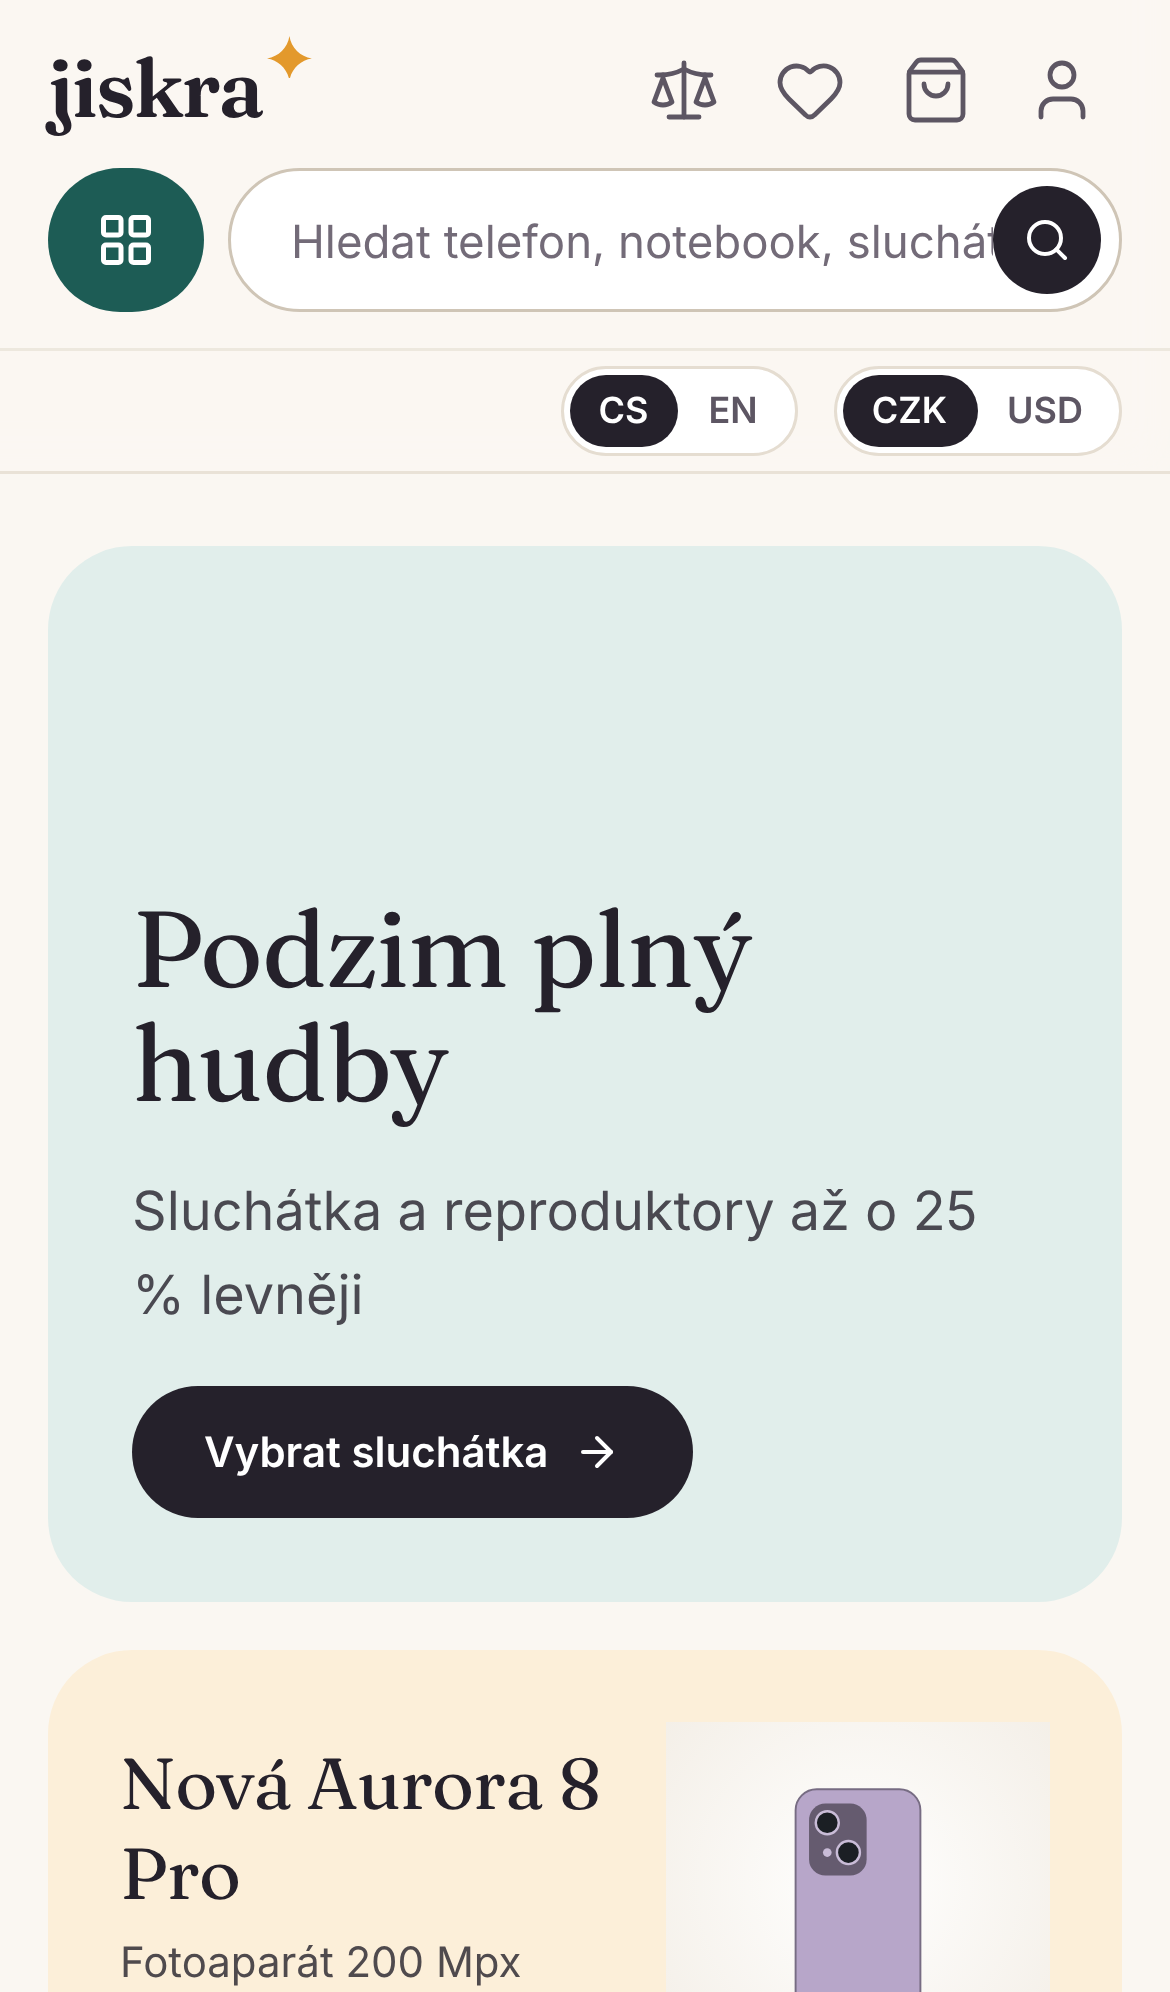
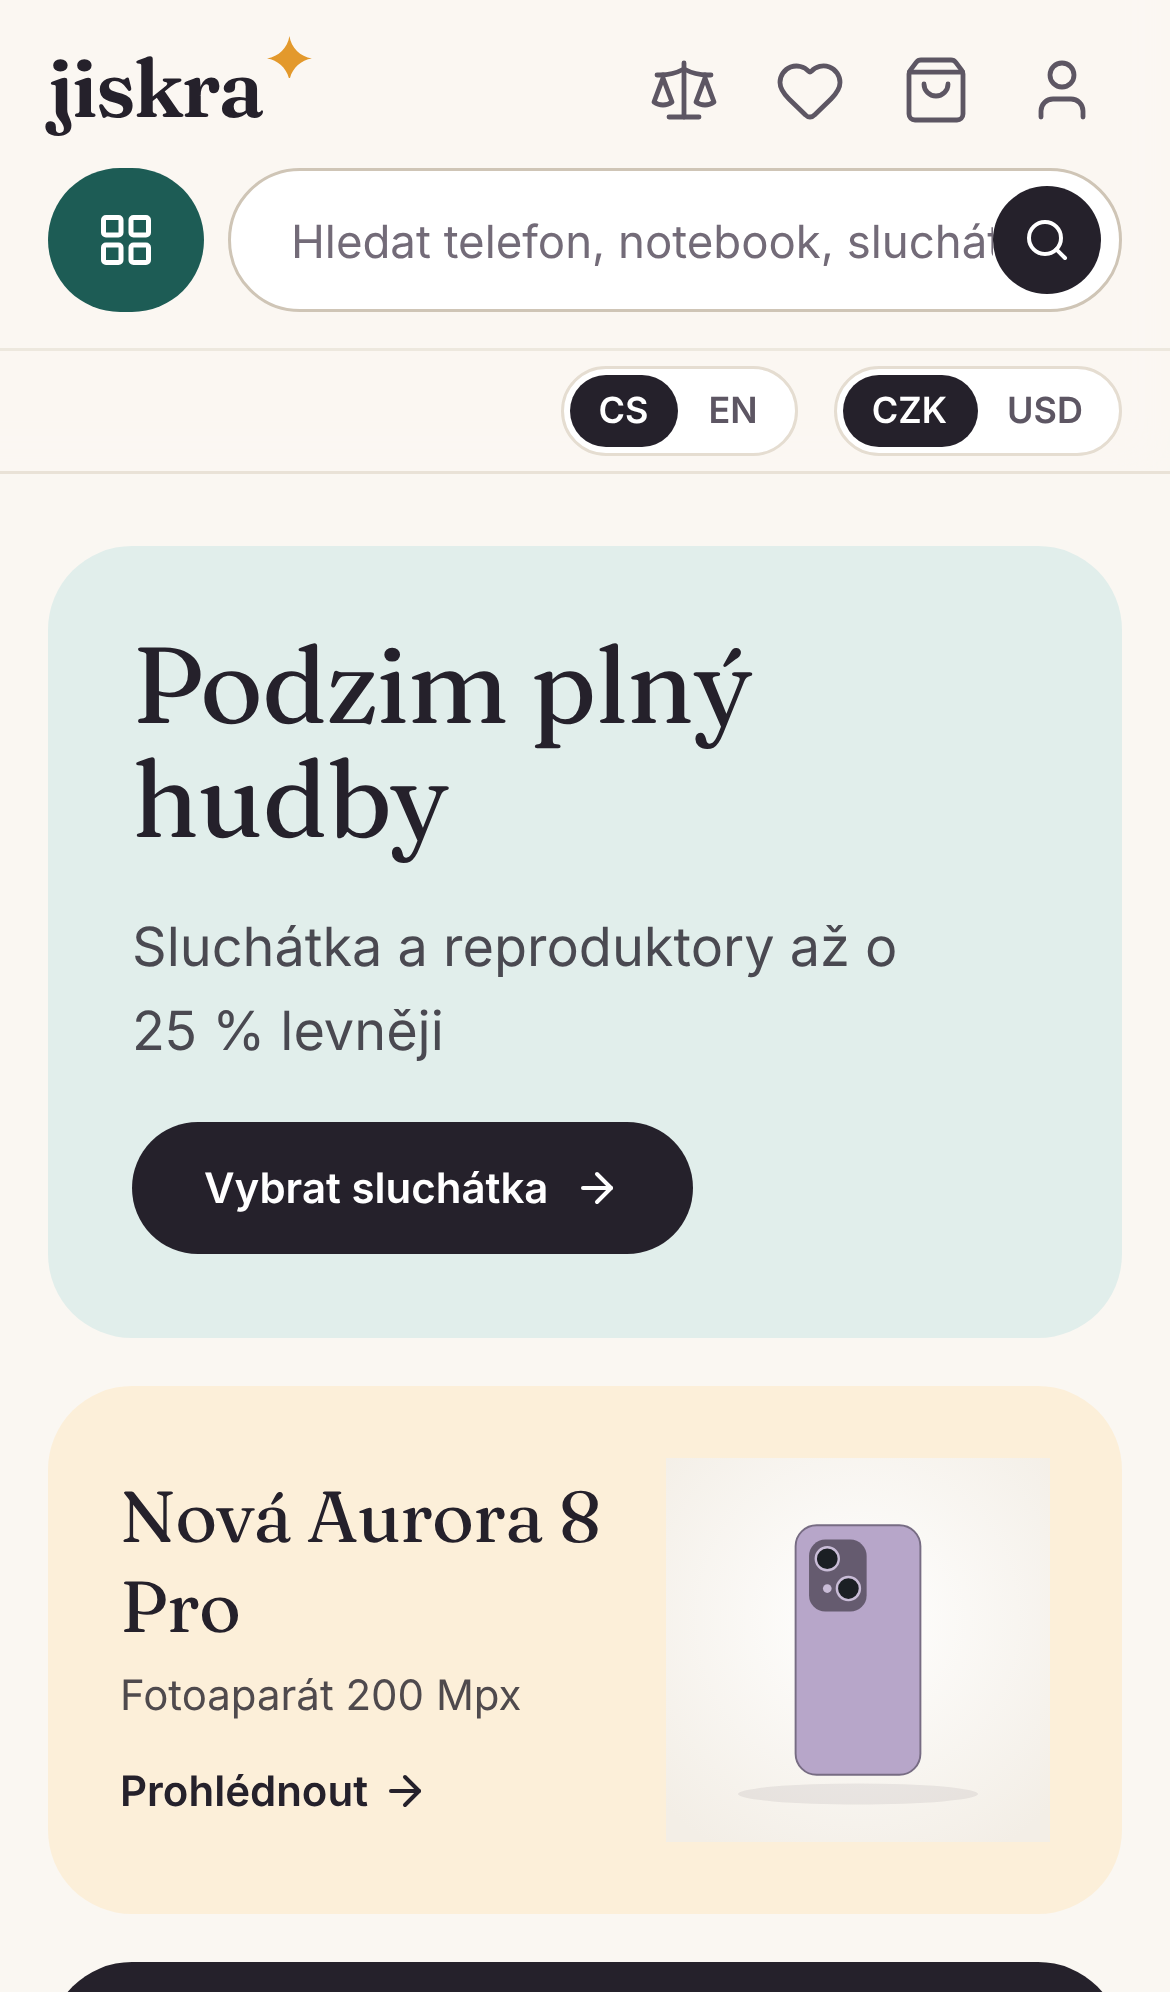
Prepare the repository for public release
- Remove internal build notes and third-party design reference screenshots
- Turn the progress log into docs/ARCHITECTURE.md
- Use clearly fictional contact and bank details in the demo data
- Expand the README (features, screenshots) and refresh the screenshots
- Keep the hero banner compact on phones; non-breaking space in a percentage

Changed region(s): [[0.0308, 0.3112, 0.9846, 1.0], [0.4615, 0.3112, 0.6462, 0.3735]]

diff --git a/prisma/seed.ts b/prisma/seed.ts
@@ -255,7 +255,7 @@ async function seedBanners(catSlugs: Map<string, Tr>) {
     link: Tr;
     alt: Tr;
   }> = [
-    { placement: "HERO", bg: "#e1eeeb", fg: "#25212b", image: placeholderUrl("headphones", "d8c3a5", 1), title: ["Podzim plný hudby", "An autumn full of music"], subtitle: ["Sluchátka a reproduktory až o 25 % levněji", "Headphones and speakers up to 25% off"], cta: ["Vybrat sluchátka", "Shop headphones"], link: cat("headphones"), alt: ["Bezdrátová sluchátka v pískové barvě", "Sand-coloured wireless headphones"] },
+    { placement: "HERO", bg: "#e1eeeb", fg: "#25212b", image: placeholderUrl("headphones", "d8c3a5", 1), title: ["Podzim plný hudby", "An autumn full of music"], subtitle: ["Sluchátka a reproduktory až o 25\u00a0% levněji", "Headphones and speakers up to 25% off"], cta: ["Vybrat sluchátka", "Shop headphones"], link: cat("headphones"), alt: ["Bezdrátová sluchátka v pískové barvě", "Sand-coloured wireless headphones"] },
     { placement: "HERO_SIDE", bg: "#fcefd9", fg: "#25212b", image: placeholderUrl("phone", "b7a6c9", 2), title: ["Nová Aurora 8 Pro", "The new Aurora 8 Pro"], subtitle: ["Fotoaparát 200 Mpx", "200 MP camera"], cta: ["Prohlédnout", "Discover"], link: ["/product/nordvik-aurora-8-pro", "/product/nordvik-aurora-8-pro"], alt: ["Telefon v levandulové barvě", "Lavender phone"] },
     { placement: "HERO_SIDE", bg: "#25212b", fg: "#ffffff", image: placeholderUrl("controller", "a8463d", 1), title: ["Herní týdny", "Gaming weeks"], subtitle: ["Konzole a ovladače v akci", "Consoles and controllers on sale"], cta: ["Do herního světa", "Enter gaming"], link: cat("gaming"), alt: ["Červený herní ovladač", "Red game controller"] },
     { placement: "PROMO", bg: "#f2ede5", fg: "#25212b", image: placeholderUrl("laptop", "c9ccd1", 1), title: ["Notebooky pro studenty", "Laptops for students"], subtitle: ["Lehké, tiché, s celodenní výdrží", "Light, quiet, all-day battery"], cta: ["Vybrat", "Browse"], link: cat("laptops"), alt: ["Stříbrný notebook", "Silver laptop"] },
@@ -408,10 +408,10 @@ async function main() {
       usdRate: USD_RATE,
       usdRounding: "NINETY_NINE",
       shopName: "Jiskra",
-      contactEmail: "obchod@jiskra.local",
+      contactEmail: "obchod@jiskra.example",
       contactPhone: "+420 123 456 789",
       address: "Ukázková 1, 110 00 Praha 1",
-      companyId: "12345678",
+      companyId: "00000000",
       bankAccount: "0000000000/0000",
       iban: "CZ00 0000 0000 0000 0000 0000",
       lowStockThreshold: 5,

diff --git a/src/app/[locale]/page.tsx b/src/app/[locale]/page.tsx
@@ -65,7 +65,7 @@ export default async function HomePage({ params }: { params: Promise<{ locale: s
       {(hero || side.length > 0) && (
         <section aria-label={t("promotions")} className="mt-6 grid gap-4 lg:grid-cols-[1.9fr_1fr]">
           {hero?.tr && (
-            <BannerLink href={hero.tr.linkUrl} className="group relative grid min-h-[22rem] overflow-hidden rounded-2xl p-7 sm:grid-cols-[1fr_0.9fr] sm:p-10">
+            <BannerLink href={hero.tr.linkUrl} className="group relative grid min-h-64 overflow-hidden sm:min-h-[22rem] rounded-2xl p-7 sm:grid-cols-[1fr_0.9fr] sm:p-10">
               <span className="absolute inset-0" style={{ background: hero.bgColor }} aria-hidden="true" />
               <div className="relative z-10 flex flex-col justify-end gap-4 self-stretch" style={{ color: hero.textColor }}>
                 <h2 className="text-4xl leading-[1.05] sm:text-5xl lg:text-6xl">{hero.tr.title}</h2>

diff --git a/docs/ARCHITECTURE.md b/docs/ARCHITECTURE.md
@@ -1,6 +1,6 @@
-# PROGRESS
+# Architecture and engineering notes
 
-Living status document: what is done, what is next, decisions and known issues.
+How the shop is put together, the main design decisions, how it is tested and what is still open.
 
 ## Brand
 
@@ -10,18 +10,6 @@ Living status document: what is done, what is next, decisions and known issues.
   near-black ink `#25212b`, deep teal brand `#1d5c55`, amber spark `#e3992c`, terracotta sale `#b23a2b`.
 - **Type:** Fraunces (serif display, headings) + Inter (body), self-hosted via `@fontsource-variable/*`.
 - **Shape:** cards `rounded-xl` (20px), pill buttons, soft shadows, airy spacing.
-
-## Phase plan
-
-| Phase | Scope | Status |
-| --- | --- | --- |
-| 0 | Setup: Next.js, TS, Tailwind, Prisma, next-intl, Zod, Vitest, tokens, brand | ✅ done |
-| 1 | Prisma data model + seed | ✅ done |
-| 2 | CMS / admin panel (`/admin`) | ✅ done |
-| 3 | Storefront | ✅ done |
-| 4 | Cart and checkout | ✅ done |
-| 5 | Quality: tests, e2e, final pass | ✅ done |
-| 6 | Second pass: review fixes, known issues, accounts, transports | ✅ done |
 
 ## Decisions
 
@@ -36,7 +24,7 @@ Living status document: what is done, what is next, decisions and known issues.
   "CZK per 1 USD × 10 000" so CZK→USD conversion is exact (BigInt math). USD rounding modes: cent / whole / .99.
 - **Validation messages:** Zod 4 built-in locales (`cs`, `en`) are passed per parse, custom messages are i18n keys.
 
-## Data model (Phase 1)
+## Data model
 
 `prisma/schema.prisma` — Category (tree) + CategoryTranslation, Brand, Product + ProductTranslation,
 ProductVariant + VariantOption (color/storage/memory/size/connectivity/edition, labels cs/en, swatch hex),
@@ -56,17 +44,18 @@ prices in both currencies, free-from thresholds), Counter (order numbers).
   brands, 43 products / 123 variants, specs, 4 badges, 7 banners, ~120 reviews (some pending), 3 shipping methods,
   10 sample orders, admin user from `SEED_ADMIN_*`. The seed wipes existing data first.
 - Tests use a throwaway `prisma/test.db` recreated by `tests/global-setup.ts`.
-- Second pass added `Customer.emailVerifiedAt`, `CustomerSession`, `CustomerToken` (hashed one-time tokens),
-  `RateLimitBucket`, `Order.searchText`, `Review.searchText` and `ProductSpecValue.textKey`.
+- Accounts and security: `Customer.emailVerifiedAt`, `CustomerSession`, `CustomerToken` (hashed one-time tokens),
+  `RateLimitBucket`; portable search columns `Order.searchText`, `Review.searchText`; `ProductSpecValue.textKey`
+  (locale-independent filter value).
 
-## CMS (Phase 2)
+## CMS (`/admin`)
 
 `/admin` (not localized; CS/EN switch in the top bar stores `ADMIN_LOCALE`). Login at `/admin/login`.
 
 - **Auth:** own implementation — bcrypt (cost 12) password hashes, random 32-byte session token in an httpOnly
   `admin_session` cookie, only its SHA-256 stored in `AdminSession` (7-day expiry). Middleware does a cheap cookie
   presence check; `requireAdmin()` validates against the DB in the panel layout and in **every** server action.
-  Login is rate-limited in the database (5 attempts / 15 min per IP+e-mail, 20 per e-mail) — see Second pass.
+  Login is rate-limited in the database (5 attempts / 15 min per IP+e-mail, 20 per e-mail).
 - **Roles:** ADMIN = everything; EDITOR cannot open/act on Admin users and Settings (`requireAdmin({ role: "ADMIN" })`).
 - **Sections:** dashboard (orders by status, revenue per currency all-time + 30 days, low stock, latest orders,
   pending reviews), products, categories (tree, up/down reordering, cycle protection, delete blocked when non-empty),
@@ -84,10 +73,10 @@ prices in both currencies, free-from thresholds), Counter (order numbers).
   unique SKU, unique spec key) on the server. Deletes go through a confirmation `<dialog>`.
 - **Messages check:** `src/i18n/keys.test.ts` statically verifies that literal translation keys used in code exist.
 
-## Storefront (Phase 3)
+## Storefront
 
 Routes (all under `/cs` and `/en`): `/` home, `/category/[slug]`, `/product/[slug]`, `/search?q=`, `/favorites`,
-`/compare` (+ `/cart`, `/checkout`, `/order/[number]` in Phase 4). `sitemap.xml`, `robots.txt` at the root.
+`/compare`, `/cart`, `/checkout`, `/order/[number]`, `/account/*`. `sitemap.xml`, `robots.txt` at the root.
 
 - **Header** (`src/components/store/site-header.tsx`): utility bar (free-shipping note, phone, CS/EN + CZK/USD
   switchers), logo, big "Catalog" button → DNS-style mega-menu (icons left, subcategories with counts right;
@@ -111,7 +100,7 @@ Routes (all under `/cs` and `/en`): `/` home, `/category/[slug]`, `/product/[slu
   category with a shared spec table and "differences only".
 - **Images:** `next/image`; generated SVG placeholders are served unoptimized, uploads are optimized.
 
-## Cart and checkout (Phase 4)
+## Cart and checkout
 
 - **Cart** (`/cart`): lines `{variantId, qty}` in localStorage; prices, names, images and stock are re-quoted on the
   server (`quoteCart`) in the visitor's currency. Quantity steppers capped by stock, stock/unavailable warnings with
@@ -132,9 +121,7 @@ Routes (all under `/cs` and `/en`): `/` home, `/category/[slug]`, `/product/[slu
   payment instructions, items and address.
 - **Status e-mails:** changing an order's status in the CMS e-mails the customer (`sendOrderStatusEmail`).
 
-## Quality (Phase 5)
-
-Test suites as of the second pass (see below for what was added):
+## Testing
 
 - **Vitest (135 tests):** money, conversion and rounding; cart lines/totals/stock; filters, presets and
   text keys; variant selection; spec formatting; category tree and visibility; product form round-trip;
@@ -150,41 +137,6 @@ Test suites as of the second pass (see below for what was added):
   (register → verify via the file mail outbox → sign in → pre-filled checkout → order history → password reset),
   CMS login/edit/validation/roles/order history, security headers, and **axe WCAG 2.1 AA scans** of 9 pages.
 - `tsc`, ESLint and `next build` are clean.
-
-## Second pass (review) — what changed
-
-Fixed, most severe first:
-
-1. **Image URLs** entered in the CMS are restricted to site-relative paths (an external URL crashed storefront
-   pages through `next/image`); protocol-relative links (`//host`) are rejected.
-2. **Uploads** are validated by magic bytes, not the browser MIME type; one file per request (no body-limit failures).
-3. **Price-change guard:** an order is refused if the server-side total differs from the total the customer saw.
-4. **Currency switch** re-quotes cart, checkout, favourites and compare (they kept old-currency prices) and drops
-   `pmin/pmax` from listing URLs (bounds were reinterpreted in the new currency).
-5. **Product save:** two-phase SKU update (swapping SKUs crashed), brand/badge ids validated, unique-violation races
-   reported; the transaction moved to `src/lib/catalog/save-product.ts`.
-6. **Stripe:** amount, currency and order id must match before an order is marked paid (return page + webhook).
-7. **Login CSRF:** e-mail verification and password reset no longer sign the visitor in.
-8. **Security headers:** `frame-ancestors 'none'`/`X-Frame-Options` (CMS clickjacking), nosniff, referrer and
-   permissions policies; the order page (token in URL) sends no referrer.
-9. **Visibility:** products in deactivated categories (or under a deactivated parent) are hidden everywhere and
-   cannot be ordered; the category tree no longer promotes grandchildren of inactive categories.
-10. Smaller: product without variants (crash), stale sub-nav variant after navigation, hard-coded `courier`
-    shipping code, concurrent status change (500), cross-locale category redirect dropping filters, guest checkout
-    overwriting a registered customer's profile, admin logged out when changing their own password, malformed
-    input to public actions, e-mails delaying checkout (now sent with `after()`).
-11. Consistency: locale number formatting for ratings and discounts, untranslated labels, modal behaviour of the
-    mobile filter drawer and CMS navigation (Escape, focus trap/restore, scroll lock), dead code and unused
-    messages removed, orphaned uploads deleted after saves/deletes.
-
-Known issues resolved: database-backed rate limits, portable case-insensitive admin search (`searchText` on orders
-and reviews, brand slug), locale-independent spec filters (`textKey`), disjunctive facets.
-
-Not-done items implemented: **customer accounts** (register with e-mail verification, sign-in, reset, profile,
-order history, pre-filled checkout), **SMTP / file mailers** and **S3-compatible storage**.
-
-Upgrading an existing database: `npm run db:push` then `npm run db:backfill` (fills `searchText`, `textKey` and
-aggregates without deleting data), or simply re-seed.
 
 ## How to run locally
 
@@ -224,11 +176,10 @@ console; set `MAILER=file` to collect them in `tmp/mail-outbox.jsonl` or `MAILER
 10. Optional Stripe: set `STRIPE_SECRET_KEY` (test key) → "Platební karta (Stripe)" appears at checkout; for webhooks
     also set `STRIPE_WEBHOOK_SECRET` and forward events to `/api/stripe/webhook`.
 
-## Ideas / not implemented (outside the spec)
+## Out of scope
 
-Deliberately left out because the spec does not ask for them (no features outside the spec without a
-reason): DNS-style bundles, warranty add-ons, instalment prices, user photo strip, news/blog cards, a customer list
-in the CMS.
+Not implemented on purpose (out of scope): product bundles, warranty add-ons, instalment prices, customer photo
+galleries, news/blog, a customer list in the CMS.
 
 ## Known issues / still open
 
@@ -238,7 +189,7 @@ in the CMS.
   `eslint-config-next`. Plan these as a separate upgrade; Prisma 7 also needs `prisma.config.ts` (the
   `package.json#prisma` key is deprecated) and driver adapters.
 - Uploads that are added in the editor but never saved remain in storage (only previously saved files are cleaned).
-- `npm run db:reset` resets the dev database. Tests use
-  their own throwaway DB files (`prisma/test.db`, `prisma/e2e.db`).
+- Tests use their own throwaway database files (`prisma/test.db`, `prisma/e2e.db`); `npm run db:reset` resets the
+  dev database.
 - Rate-limit buckets are cleaned opportunistically; very high traffic deployments may prefer Redis behind the same
   function signature.

diff --git a/README.md b/README.md
@@ -1,7 +1,23 @@
 # Jiskra — electronics e-shop with a built-in CMS
 
-Self-written online store for consumer electronics with its own admin panel. No third-party CMS or
-e-commerce engine. Czech (default) + English, CZK (default) + USD.
+An online store for consumer electronics with its own admin panel (CMS), built from scratch — no third-party
+CMS or e-commerce engine. Czech (default) + English, CZK (default) + USD.
+
+All brands, products and contact details in the demo data are fictional; product images are generated SVG
+illustrations.
+
+## Features
+
+- **Storefront:** mega-menu catalog, search with suggestions, category pages with URL-synced filters (price, brand,
+  availability, rating, specifications), sorting and grid/list views, product pages with variant selectors
+  (colour, storage…), gallery, specifications, reviews and related products, favourites and comparison.
+- **Checkout:** cart with stock checks, guest checkout or optional customer accounts, shipping methods, bank
+  transfer / cash on delivery (Stripe when configured), order confirmation e-mails.
+- **CMS:** dashboard, products (per-language content, variant editor, specs, image upload with drag & drop),
+  categories, brands, specifications, banners, badges, review moderation, orders with status history, admin users
+  with roles, settings (exchange rate, contacts, shipping).
+- **Quality:** strict TypeScript, Zod validation shared by client and server, unit/integration tests (Vitest),
+  end-to-end and accessibility tests (Playwright + axe), SEO (hreflang, sitemap, structured data).
 
 **Stack:** Next.js 15 (App Router) · TypeScript (strict) · Tailwind CSS 4 · Prisma 6 (SQLite in dev,
 PostgreSQL-ready) · next-intl · Zod · Vitest · Playwright.
@@ -58,7 +74,7 @@ src/lib/                   domain logic (money, cart, filters, orders, payments,
 src/i18n/                  next-intl routing and request config
 ```
 
-See `PROGRESS.md` for the phase plan, decisions and current status.
+See [`docs/ARCHITECTURE.md`](docs/ARCHITECTURE.md) for architecture, design decisions, testing and known issues.
 
 ## Production notes
 
